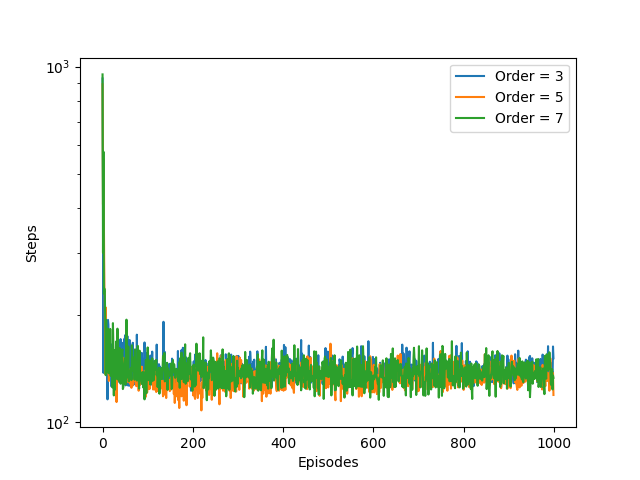
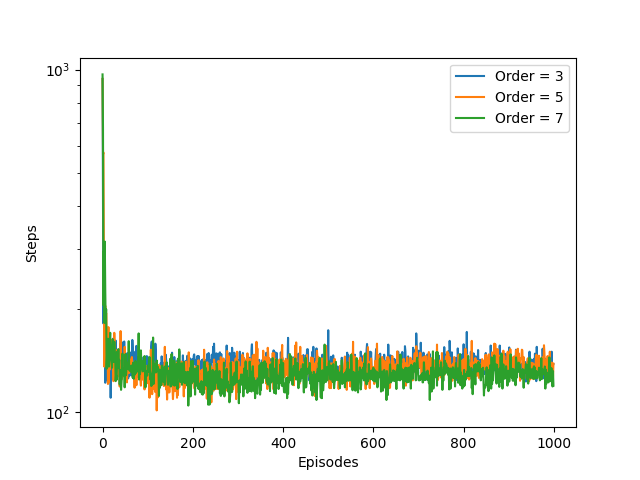
...

Changed region(s): [[0.1562, 0.5, 0.875, 0.8438], [0.0625, 0.8438, 0.125, 0.9062], [0.0625, 0.125, 0.125, 0.1562]]

diff --git a/PA3/MountainCar.py b/PA3/MountainCar.py
@@ -38,7 +38,7 @@ class MountainCar(MountainCarEnv):
         self.state = (position, velocity)
 
         if self.isTerminal():
-            return np.array(self.state, dtype=np.float32), 0.0, True
+            return np.array(self.state, dtype=np.float32), -1.0, True
         return np.array(self.state, dtype=np.float32), -1.0, False
 
     def animate(self, episode: int, step: int, max_steps: int):
@@ -49,7 +49,7 @@ class MountainCar(MountainCarEnv):
     def isTerminal(self, state: (float, float) = None) -> bool:
         if state is None:
             state = self.state
-        return state[0] >= self.goal_position and state[1] >= self.goal_velocity
+        return state[0] >= self.goal_position  # and state[1] >= self.goal_velocity
 
     def getState(self) -> np.ndarray:
         return np.array(self.state)
